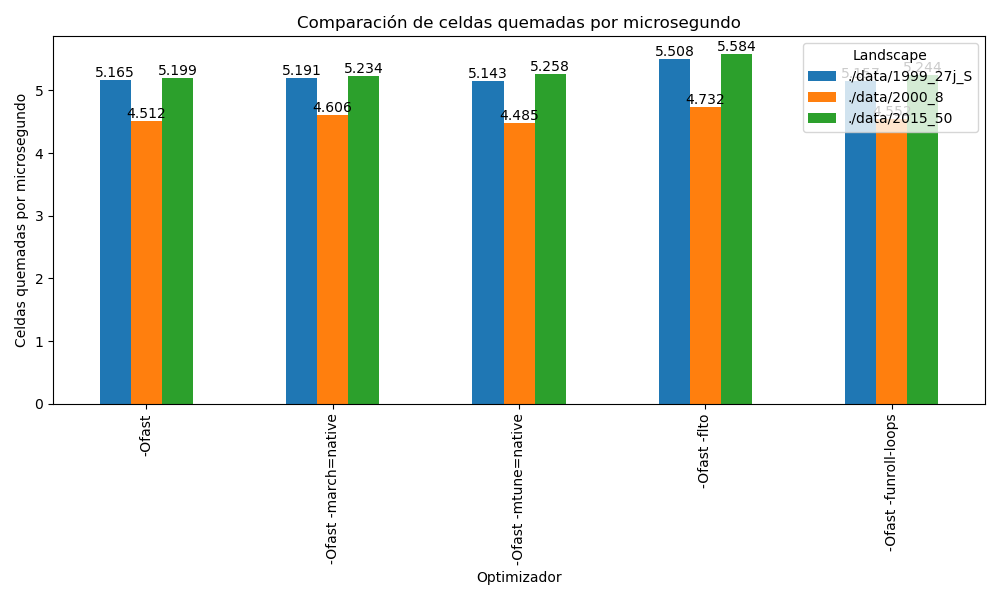
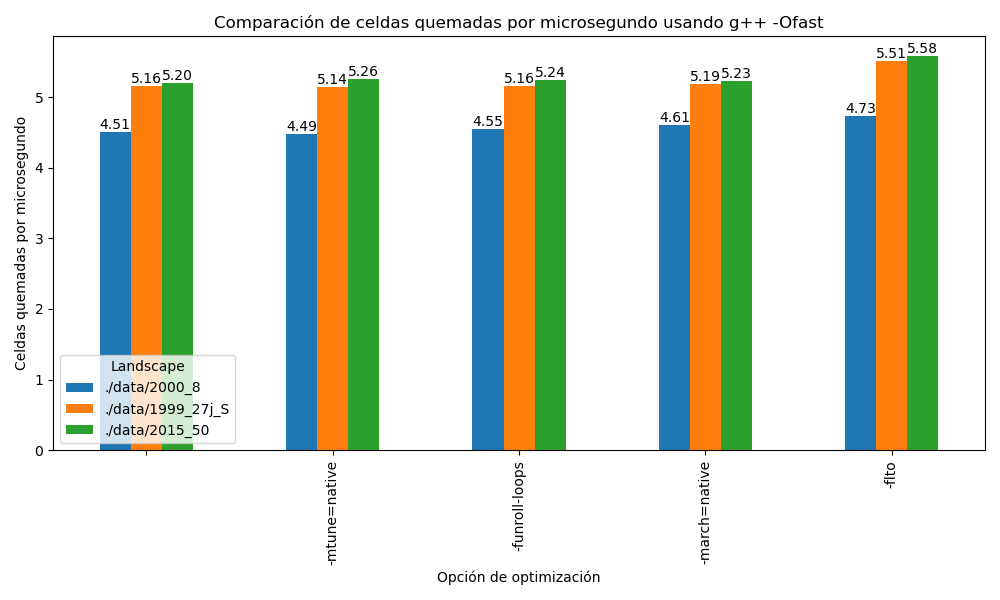
Grafico2 fixed

diff --git a/graficador2.py b/graficador2.py
@@ -5,26 +5,37 @@ def plot_comparacion_celdas(csv_path):
     # Leer el archivo CSV
     df = pd.read_csv(csv_path)
     
-    # Crear una tabla dinámica (pivot):
-    #   - Índice: Optimizador
-    #   - Columnas: Landscape
-    #   - Valores: Celdas quemadas por microsegundo
+    # Calcular el promedio de "Celdas quemadas por microsegundo" para cada optimizador
+    promedio_opt = df.groupby("Optimizador")["Celdas quemadas por microsegundo"].mean()
+    # Ordenar de mayor a menor (la mayor cantidad implica mejor rendimiento)
+    optimizer_order = promedio_opt.sort_values(ascending=True).index.tolist()
+    
+    # Crear la tabla dinámica: filas = Optimizador, columnas = Landscape,
+    # valores = Celdas quemadas por microsegundo
     pivot = df.pivot(index="Optimizador", columns="Landscape", values="Celdas quemadas por microsegundo")
     
-    # Reordenar los optimizadores si se desea un orden específico
-    orden_optimizadores = ["-Ofast", "-Ofast -march=native", "-Ofast -mtune=native", "-Ofast -flto", "-Ofast -funroll-loops"]
-    pivot = pivot.reindex(orden_optimizadores)
+    # Reordenar los optimizadores según el promedio (más rápido primero)
+    pivot = pivot.reindex(optimizer_order)
     
-    # Crear el gráfico de barras comparativo
+    # Reordenar las columnas según el orden deseado:
+    # Se asume que los Landscape tienen nombres como "./data/2000_8", "./data/1999_27j_S", "./data/2015_50"
+    orden_landscapes = ["./data/2000_8", "./data/1999_27j_S", "./data/2015_50"]
+    pivot = pivot[orden_landscapes]
+    
+    # Crear el gráfico de barras agrupadas
     ax = pivot.plot(kind='bar', figsize=(10, 6))
-    ax.set_xlabel("Optimizador")
+    ax.set_xlabel("Opción de optimización")
     ax.set_ylabel("Celdas quemadas por microsegundo")
-    ax.set_title("Comparación de celdas quemadas por microsegundo")
-    ax.legend(title="Landscape")
+    ax.set_title("Comparación de celdas quemadas por microsegundo usando g++ -Ofast")
+    ax.legend(title="Landscape", loc="lower left")
     
-    # Añadir etiquetas de valor encima de cada barra
+    # Modificar las etiquetas del eje x para que no muestren "-Ofast"
+    nuevos_labels = [opt.replace("-Ofast", "").strip() for opt in pivot.index]
+    ax.set_xticklabels(nuevos_labels)
+    
+    # Añadir etiquetas con el valor encima de cada barra
     for container in ax.containers:
-        ax.bar_label(container, fmt='%.3f')
+        ax.bar_label(container, fmt="%.2f")
     
     plt.tight_layout()
     plt.savefig("grafica2.png")
